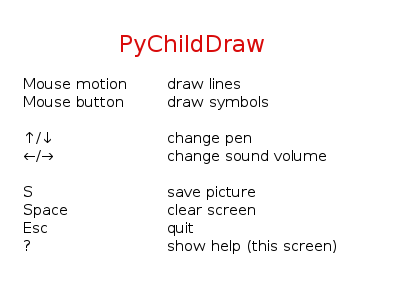
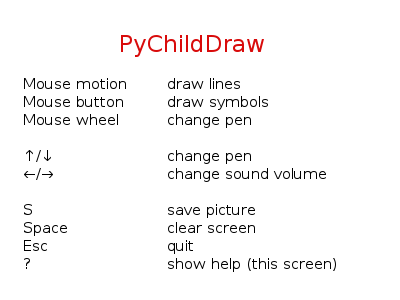
New version 0.5.3 bug fixes

diff --git a/pychilddraw/pychilddraw.py b/pychilddraw/pychilddraw.py
@@ -28,7 +28,7 @@ import math
 from pygame.locals import *
 from random import (randint, choice)
 from time import (gmtime, strftime)
-__version__ = "0.5.2"
+__version__ = "0.5.3"
 
 
 # if not pygame.font:
@@ -196,19 +196,31 @@ class ChildDraw:
                 self.mouse_motion(event.buttons, event.pos, event.rel)
 
     def mouse_up(self, button, pos):
-        symbol = ChildSymbol()
-        symbol.pos = pos
-        self.symbols.append(symbol)
+        # button left = 1, middle = 2, right = 3, wheel up = 4 and down = 5
+        print(button)
+        if button == 4 or button == 5:
+            self.pen.change_pen()
+            # to avoid jumping pen first frame
+            pos = pygame.mouse.get_pos()
+            self.color = get_color(COLORS[self.pen.name.split('_')[1].
+                                          split('.')[0]])
+            self.line_len = 0
+            self.mouse = (pos[0], pos[1] - self.pen.mouseCurserHeight)
 
-        if pygame.mixer:
-            try:
-                sound_file = sound_path(choice(SOUNDS))
-                SoundToPlay = pygame.mixer.Sound(sound_file)
-                SoundToPlay.set_volume(self.sound_level)
-                SoundToPlay.play()
-            except pygame.error as message:
-                print("Can't find sound file ", sound_file.split("/")[-1])
-                print("Error ", message)
+        else:
+            symbol = ChildSymbol()
+            symbol.pos = pos
+            self.symbols.append(symbol)
+
+            if pygame.mixer:
+                try:
+                    sound_file = sound_path(choice(SOUNDS))
+                    SoundToPlay = pygame.mixer.Sound(sound_file)
+                    SoundToPlay.set_volume(self.sound_level)
+                    SoundToPlay.play()
+                except pygame.error as message:
+                    print("Can't find sound file ", sound_file.split("/")[-1])
+                    print("Error ", message)
 
     def mouse_motion(self, buttons, pos, rel):
         # A ugly hack to remove the first strange line
@@ -254,10 +266,16 @@ class ChildDraw:
             self.pen.change_pen()
             # to avoid jumping pen first frame
             pos = pygame.mouse.get_pos()
+            self.color = get_color(COLORS[self.pen.name.split('_')[1].
+                                          split('.')[0]])
+            self.line_len = 0
             self.mouse = (pos[0], pos[1] - self.pen.mouseCurserHeight)
 
         elif key == K_DOWN:
             self.pen.change_pen()
+            self.color = get_color(COLORS[self.pen.name.split('_')[1].
+                                          split('.')[0]])
+            self.line_len = 0
             # to avoid jumping pen first frame
             pos = pygame.mouse.get_pos()
             self.mouse = (pos[0], pos[1] - self.pen.mouseCurserHeight)

diff --git a/README.md b/README.md
@@ -1,7 +1,7 @@
 PyChilddraw
 =========
 PyChildDraw is a gamine clone see http://gnunux.info/projets/gamine
-This is a total re-implementation but now in python. Most of the game assets are from gamine that is under GPL license.
+This is a total re-implementation but now in python. All the sound assets are from gamine that is under GPL license. The pencils are drawn by Lisa Boman
 
 ## Background
 My daughter liked Gamine but I was not able to install it under my Linux distribution. To solve this I ported Gamine Python using Pygame.
@@ -27,7 +27,7 @@ If you don't have pip installed the process is little more complicated, see e.g.
 * Add symbols by clicking on a mouse button
 * Save you drawing by pressing the **s** key
 * Clear the screen by pressing the **space** key
-* Change pens by pressing the **up** or **down** arrow key
+* Change pens by pressing the **up** or **down** arrow key or use the mouse wheel
 * Increase or decrease the sound volume by pressing **Right** and **Left** arrow key, respectively.
 * To quit press the **Esc** key
 * Get help by pressing the **h** key
@@ -38,6 +38,12 @@ The program is implemented in **Python 3** but should work with Python 2 as well
 (http://www.pygame.org/news.html).
 
 ## Change log
+###Version 0.5.3
+* New pencils with different colors.
+* The line color is now dependent on the color of the pencil
+* New control: You can now also use the mouse wheel to change the pencil.
+* Some minor bugs solved.
+
 ###Version 0.5.2
 * The line color change at a minimum of 20 pixels length
 * Pressing **Down** arrow key also change the pen
